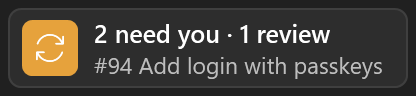
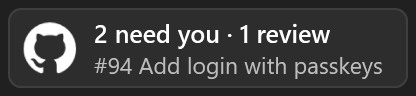
feat(github): show the GitHub mark on the tile and popup
The mark is rendered from Primer Octicons' mark-github (MIT) into a
64 px github.png, used like the Linear tile's logo.

Changed region(s): [[0.0312, 0.1875, 0.1875, 0.8125]]

diff --git a/tools/screenshots/Program.cs b/tools/screenshots/Program.cs
@@ -35,6 +35,7 @@ var outDir = Path.GetFullPath(args.Length > 0 ? args[0] : Path.Combine(repo, "do
 Directory.CreateDirectory(outDir);
 var claudeLogo = Convert.ToBase64String(File.ReadAllBytes(Path.Combine(repo, "tiles", "claude-usage", "claude.png")));
 var linearLogo = Convert.ToBase64String(File.ReadAllBytes(Path.Combine(repo, "tiles", "linear", "linear.png")));
+var githubLogo = Convert.ToBase64String(File.ReadAllBytes(Path.Combine(repo, "tiles", "github", "github.png")));
 var dockerLogo = Convert.ToBase64String(File.ReadAllBytes(Path.Combine(repo, "tiles", "docker", "docker.png")));
 
 // The scenes animate: run each connector for a moment, at each width drawn, and keep its last frame.
@@ -79,7 +80,7 @@ RunSta(() =>
         ("git", 220, Fixed(Script("""{ "title": "my-app · main", "subtitle": "3 changed, 1 new · ↑2", "icon": { "glyph": "branch", "color": "accent" } }"""))),
         ("todo", 200, Fixed(Script("""{ "title": "3 to do", "subtitle": "Write the release notes", "icon": { "glyph": "check", "color": "accent" } }"""))),
         ("linear", 200, Fixed(Script($$"""{ "title": "2 in progress", "subtitle": "ENG-142 Fix login redirect", "icon": { "glyph": "activity", "color": "accent" }, "image": "{{linearLogo}}" }"""))),
-        ("github", 200, Fixed(Script("""{ "title": "2 need you · 1 review", "subtitle": "#94 Add login with passkeys", "icon": { "glyph": "sync", "color": "warn" } }"""))),
+        ("github", 200, Fixed(Script($$"""{ "title": "2 need you · 1 review", "subtitle": "#94 Add login with passkeys", "icon": { "glyph": "sync", "color": "warn" }, "image": "{{githubLogo}}" }"""))),
         ("uptime", 132, Fixed(Script("""{ "title": "17:30", "subtitle": "up 3d 4h", "icon": { "glyph": "clock", "color": "accent" } }"""))),
         ("aquarium", 200, Scene("aquarium")),
         ("cozy-farm", 200, Scene("cozy-farm")),

diff --git a/tests/TaskbarTiles.Tests/BundledKindsTests.cs b/tests/TaskbarTiles.Tests/BundledKindsTests.cs
@@ -555,6 +555,7 @@ public class BundledKindsTests
         Assert.Equal("4 need you · 1 review", outcome.Value!.Title);
         Assert.Equal("#1 Conflicting", outcome.Value.Subtitle);
         Assert.Equal(new TileIcon("sync", TileColor.Bad), outcome.Value.Icon);
+        Assert.NotNull(outcome.Value.Image); // the GitHub mark, bundled as github.png
     }
 
     [Fact]
@@ -569,6 +570,7 @@ public class BundledKindsTests
         Assert.Empty(outcome.Warnings);
         var f = outcome.Value!;
         Assert.Equal("Pull requests", f.Title);
+        Assert.NotNull(f.Image);
         Assert.Equal("1 to review · 4 need you · 2 waiting", f.Subtitle);
         Assert.Equal(new[]
         {

diff --git a/docs/configuration.md b/docs/configuration.md
@@ -155,7 +155,7 @@ The bundled `linear` kind shows the Linear issues assigned to you that are in pr
 
 ### GitHub pull requests
 
-The bundled `github` kind shows your open pull requests on GitHub (at most 30 of each kind): those waiting for your review, and your own sorted by what they wait on. The title counts what needs you and what you have to review; the subtitle is the most urgent one. The icon is red when one of yours is blocked, amber when one needs your action, blue when only reviews wait, and green when nothing is open. Click it for the list, in four groups; click a pull request to open it in your browser.
+The bundled `github` kind shows your open pull requests on GitHub (at most 30 of each kind): those waiting for your review, and your own sorted by what they wait on. The title counts what needs you and what you have to review; the subtitle is the most urgent one. The icon is red when one of yours is blocked, amber when one needs your action, blue when only reviews wait, and green when nothing is open. Click it for the list, in four groups; click a pull request to open it in your browser. The tile and popup show the GitHub mark, from GitHub's Primer Octicons.
 
 - **Waiting for your review:** someone asked you (or your team) for a review.
 - **Blocked:** yours, with merge conflicts, failing checks, or approved but still blocked by a branch rule.
